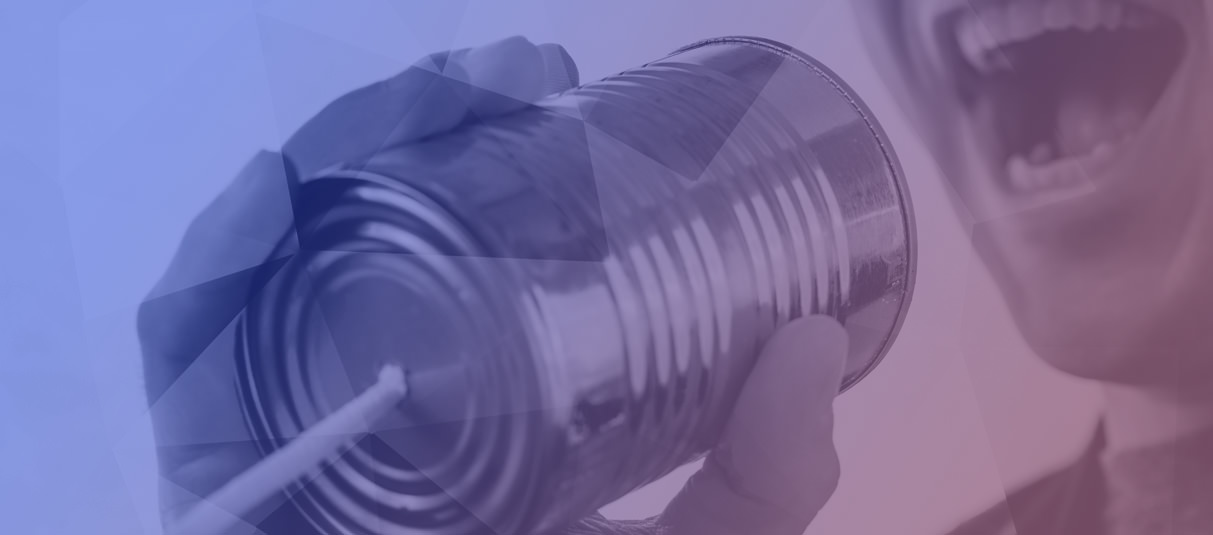
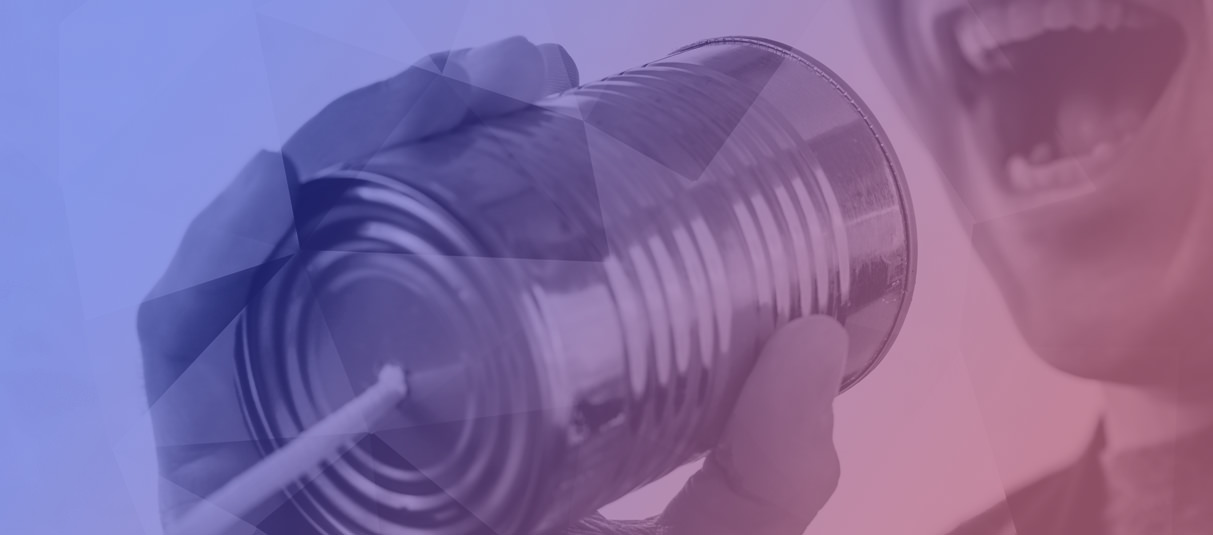
頁面Banner變更 #20161219

Changed region(s): [[0.6711, 0.0, 1.0, 1.0]]

diff --git a/css/xue-update.css b/css/xue-update.css
@@ -71,9 +71,9 @@
 .cover_contact{ /*聯絡諮詢*/
     background: url(../images/banner/pic_contact.jpg) no-repeat}
 .cover_error403{ /*403錯誤*/
-    background: url(../images/banner/pic_contact.jpg) no-repeat}
+    background: url(../images/banner/pic_403.jpg) no-repeat}
 .cover_error404{ /*404錯誤*/
-    background: url(../images/banner/pic_contact.jpg) no-repeat}
+    background: url(../images/banner/pic_404.jpg) no-repeat}
 
 /*
 =====================================
